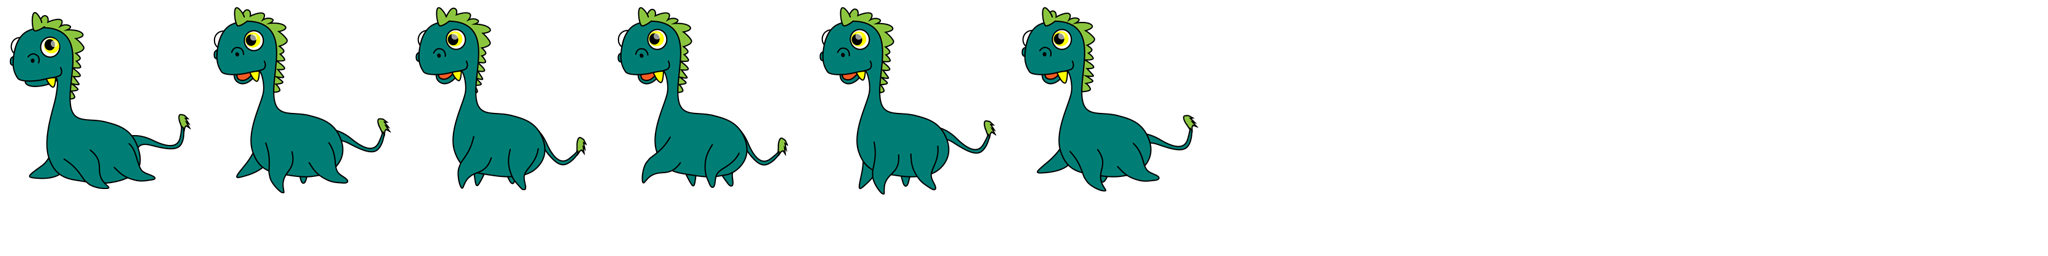
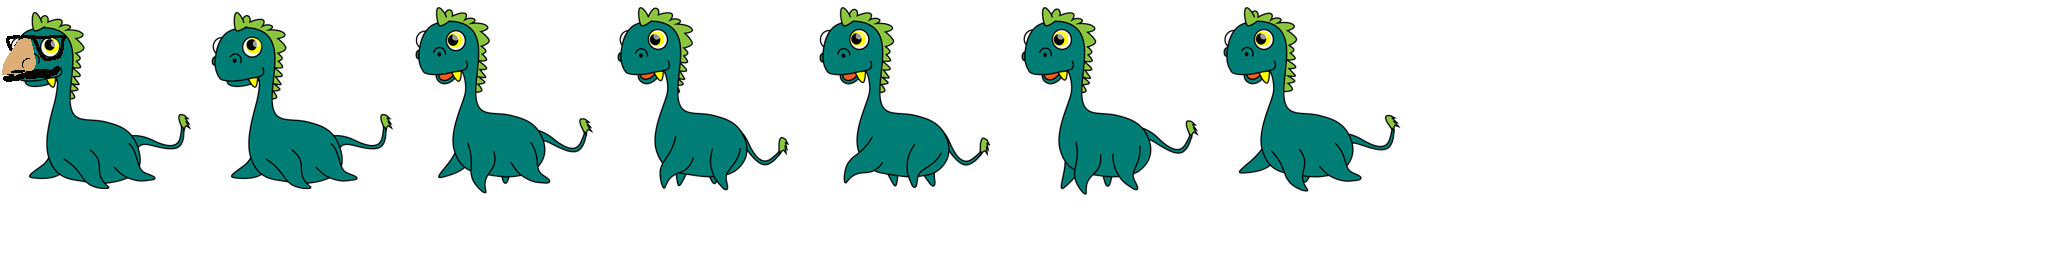
Nessie can be disguised now, but can't move.

diff --git a/html/webapp/index.html b/html/webapp/index.html
@@ -8,8 +8,7 @@
   			  <script src="soundmanager2-jsmin.js"></script> 
        </head>
        
-       <body>              
-              <a class="superdev" href="javascript:%7B%20window.__gwt_bookmarklet_params%20%3D%20%7B'server_url'%3A'http%3A%2F%2Flocalhost%3A9876%2F'%7D%3B%20var%20s%20%3D%20document.createElement('script')%3B%20s.src%20%3D%20'http%3A%2F%2Flocalhost%3A9876%2Fdev_mode_on.js'%3B%20void(document.getElementsByTagName('head')%5B0%5D.appendChild(s))%3B%7D">SuperDev Refresh</a>
+       <body>
               <div align="center" id="embed-html"></div>
               <script type="text/javascript" src="html/html.nocache.js"></script>
        </body>

diff --git a/core/src/com/pineapplepiranha/games/scene2d/actor/Player.java b/core/src/com/pineapplepiranha/games/scene2d/actor/Player.java
@@ -21,15 +21,17 @@ public class Player extends DepthActor{
     //THIS IS GROSS!!!
     private static float BUFFER = 20f;
 
-    public float speed = 250f;
+    public float speed = 180f;
 
     private float keyFrameTotal = 0f;
     public Animation animation = null;
 
     public TextureRegion hidingTexture;
     public TextureRegion normalTexture;
+    public TextureRegion disguisedTexture;
 
     public boolean isHiding = false;
+    public boolean isDisguised = false;
 
     public Player(float x, float y, float width, float height, TextureRegion tr){
         super(x+BUFFER, y+BUFFER, width-BUFFER*2, height-(BUFFER*2), tr, 0);
@@ -52,50 +54,67 @@ public class Player extends DepthActor{
     }
 
     @Override
+    public void adjustPosition(float delta) {
+        if(!isDisguised){
+            super.adjustPosition(delta);
+        }
+    }
+
+    @Override
     public void act(float delta) {
         super.act(delta);
 
-        if(velocity.x == 0.0f && velocity.y == 0.0f){
-            //
-            if(isHiding){
-                textureRegion = hidingTexture;
-            }else {
-                textureRegion = normalTexture;
-            }
-            keyFrameTotal = 0f;
-        }else if(animation != null){
-            textureRegion = animation.getKeyFrame(keyFrameTotal, true);
-            if(velocity.x < 0f){
-                textureRegion.flip(true, false);
-                Gdx.app.log("NESSIE", "ANIMATION FLIP!");
-            }
-            Gdx.app.log("NESSIE", "KeyFrame: " + keyFrameTotal);
-            keyFrameTotal += delta;
-        }
 
-        if(velocity.x > 0.0f){
-            if(!textureRegion.isFlipX()){
-                textureRegion.flip(true, false);
-            }
+        if(isDisguised){
+            //Draw Disguised and return
 
-            if(!hidingTexture.isFlipX()){
-                hidingTexture.flip(true, false);
+            if(disguisedTexture != null){
+                textureRegion = disguisedTexture;
             }
-
-            if(!normalTexture.isFlipX()){
-                normalTexture.flip(true, false);
-            }
-        }else if(velocity.x < 0.0f){
-            if(textureRegion.isFlipX()){
-                textureRegion.flip(true, false);
+            return;
+        }else{
+            if(velocity.x == 0.0f && velocity.y == 0.0f){
+                //
+                if(isHiding){
+                    textureRegion = hidingTexture;
+                }else {
+                    textureRegion = normalTexture;
+                }
+                keyFrameTotal = 0f;
+            }else if(animation != null){
+                textureRegion = animation.getKeyFrame(keyFrameTotal, true);
+                if(velocity.x < 0f){
+                    textureRegion.flip(true, false);
+                    Gdx.app.log("NESSIE", "ANIMATION FLIP!");
+                }
+                Gdx.app.log("NESSIE", "KeyFrame: " + keyFrameTotal);
+                keyFrameTotal += delta;
             }
 
-            if(hidingTexture.isFlipX()){
-                hidingTexture.flip(true, false);
-            }
+            if(velocity.x > 0.0f){
+                if(!textureRegion.isFlipX()){
+                    textureRegion.flip(true, false);
+                }
 
-            if(normalTexture.isFlipX()){
-                normalTexture.flip(true, false);
+                if(!hidingTexture.isFlipX()){
+                    hidingTexture.flip(true, false);
+                }
+
+                if(!normalTexture.isFlipX()){
+                    normalTexture.flip(true, false);
+                }
+            }else if(velocity.x < 0.0f){
+                if(textureRegion.isFlipX()){
+                    textureRegion.flip(true, false);
+                }
+
+                if(hidingTexture.isFlipX()){
+                    hidingTexture.flip(true, false);
+                }
+
+                if(normalTexture.isFlipX()){
+                    normalTexture.flip(true, false);
+                }
             }
         }
     }

diff --git a/core/src/com/pineapplepiranha/games/scene2d/stage/StealthNessieStage.java b/core/src/com/pineapplepiranha/games/scene2d/stage/StealthNessieStage.java
@@ -34,7 +34,7 @@ public class StealthNessieStage extends BaseStage {
     private static float MIN_X = 1f;
     private static float MAX_X = ViewportUtil.VP_WIDTH*5;
     private static float MIN_Y = 1f;
-    private static float MAX_Y = ViewportUtil.VP_HEIGHT/2;
+    private static float MAX_Y = ViewportUtil.VP_HEIGHT/3;
     private static float CAMERA_TRIGGER = ViewportUtil.VP_WIDTH/2;
     private static float MAX_COVER = 10;
     private static float MAX_PATROLS = 5;
@@ -57,6 +57,8 @@ public class StealthNessieStage extends BaseStage {
         initializePatrolers(am);
         initializeCover(am);
 
+        TextureRegion tr = new TextureRegion(am.get(AssetsUtil.GAME_BG, AssetsUtil.TEXTURE));
+        addActor(new GenericActor(0f, 0f, tr.getRegionWidth(), tr.getRegionHeight(), tr, Color.PURPLE));
 
         TextureAtlas atlas = am.get(AssetsUtil.ANIMATION_ATLAS, AssetsUtil.TEXTURE_ATLAS);
         Animation walking = new Animation(1f/5f, atlas.findRegions("nessie/Walk"));
@@ -65,9 +67,13 @@ public class StealthNessieStage extends BaseStage {
         TextureRegion normalTr = atlas.findRegion("nessie/Still");
         normalTr.flip(true, false);
 
-        player = new Player(0f, 5f, 200f, 195f, walking);
+        TextureRegion disguisedTr = atlas.findRegion("nessie/Disguised");
+        disguisedTr.flip(true, false);
+
+        player = new Player(0f, 5f, 150f, 150f, walking);
         player.setHidingTexture(hidingTr);
         player.setNormalTexture(normalTr);
+        player.disguisedTexture = disguisedTr;
         addActor(player);
 
         initializeInputListeners();
@@ -127,6 +133,13 @@ public class StealthNessieStage extends BaseStage {
                     player.animation.setFrameDuration(player.animation.getFrameDuration()/2f);
                 }
 
+
+                if(Input.Keys.SPACE == keycode){
+                    if(!player.isHiding){
+                        player.isDisguised = !player.isDisguised;
+                    }
+                }
+
                 return true;
             }
 
@@ -175,7 +188,7 @@ public class StealthNessieStage extends BaseStage {
             }
         }
 
-        if(!player.isHiding){
+        if(!player.isHiding && !player.isDisguised){
             for(Patroler p:patrolers){
                 if(p.visionBox.overlaps(player.collider)){
                     gameProcessor.changeToScreen(SneakyNessieGame.MENU);

diff --git a/core/src/com/pineapplepiranha/games/SneakyNessieGame.java b/core/src/com/pineapplepiranha/games/SneakyNessieGame.java
@@ -58,14 +58,12 @@ public class SneakyNessieGame extends Game implements IGameProcessor {
 
         assetManager.load(AssetsUtil.BG_MUSIC, AssetsUtil.MUSIC);
         assetManager.load(AssetsUtil.GAME_MUSIC, AssetsUtil.MUSIC);
-        assetManager.load(AssetsUtil.CITYSCAPE, AssetsUtil.TEXTURE);
+        assetManager.load(AssetsUtil.GAME_BG, AssetsUtil.TEXTURE);
         assetManager.load(AssetsUtil.TREE_1, AssetsUtil.TEXTURE);
         assetManager.load(AssetsUtil.TREE_2, AssetsUtil.TEXTURE);
         assetManager.load(AssetsUtil.NESSIE_PTRN, AssetsUtil.TEXTURE);
         assetManager.load(AssetsUtil.NESSIE, AssetsUtil.TEXTURE);
         assetManager.load(AssetsUtil.FLASHLIGHT, AssetsUtil.TEXTURE);
-
-        assetManager.load(AssetsUtil.CIRCLE, AssetsUtil.TEXTURE);
 
         assetManager.load(AssetsUtil.ANIMATION_ATLAS, AssetsUtil.TEXTURE_ATLAS);
     }

diff --git a/core/src/com/pineapplepiranha/games/util/AssetsUtil.java b/core/src/com/pineapplepiranha/games/util/AssetsUtil.java
@@ -33,8 +33,7 @@ public class AssetsUtil {
 
     //Images
     public static final String TITLE_SCREEN = "images/bg_city.png";
-    public static final String CITYSCAPE = "images/cityscape.png";
-    public static final String CIRCLE = "images/windrose.png";
+    public static final String GAME_BG = "images/Background.jpg";
     public static final String TREE_1 = "images/tree-1.png";
     public static final String TREE_2 = "images/tree-2.png";
     public static final String NESSIE_PTRN = "images/Nessi-Pattern.png";

diff --git a/html/src/com/pineapplepiranha/games/client/HtmlLauncher.java b/html/src/com/pineapplepiranha/games/client/HtmlLauncher.java
@@ -9,7 +9,7 @@ public class HtmlLauncher extends GwtApplication {
 
         @Override
         public GwtApplicationConfiguration getConfig () {
-                return new GwtApplicationConfiguration(480, 320);
+                return new GwtApplicationConfiguration(960, 640);
         }
 
         @Override
